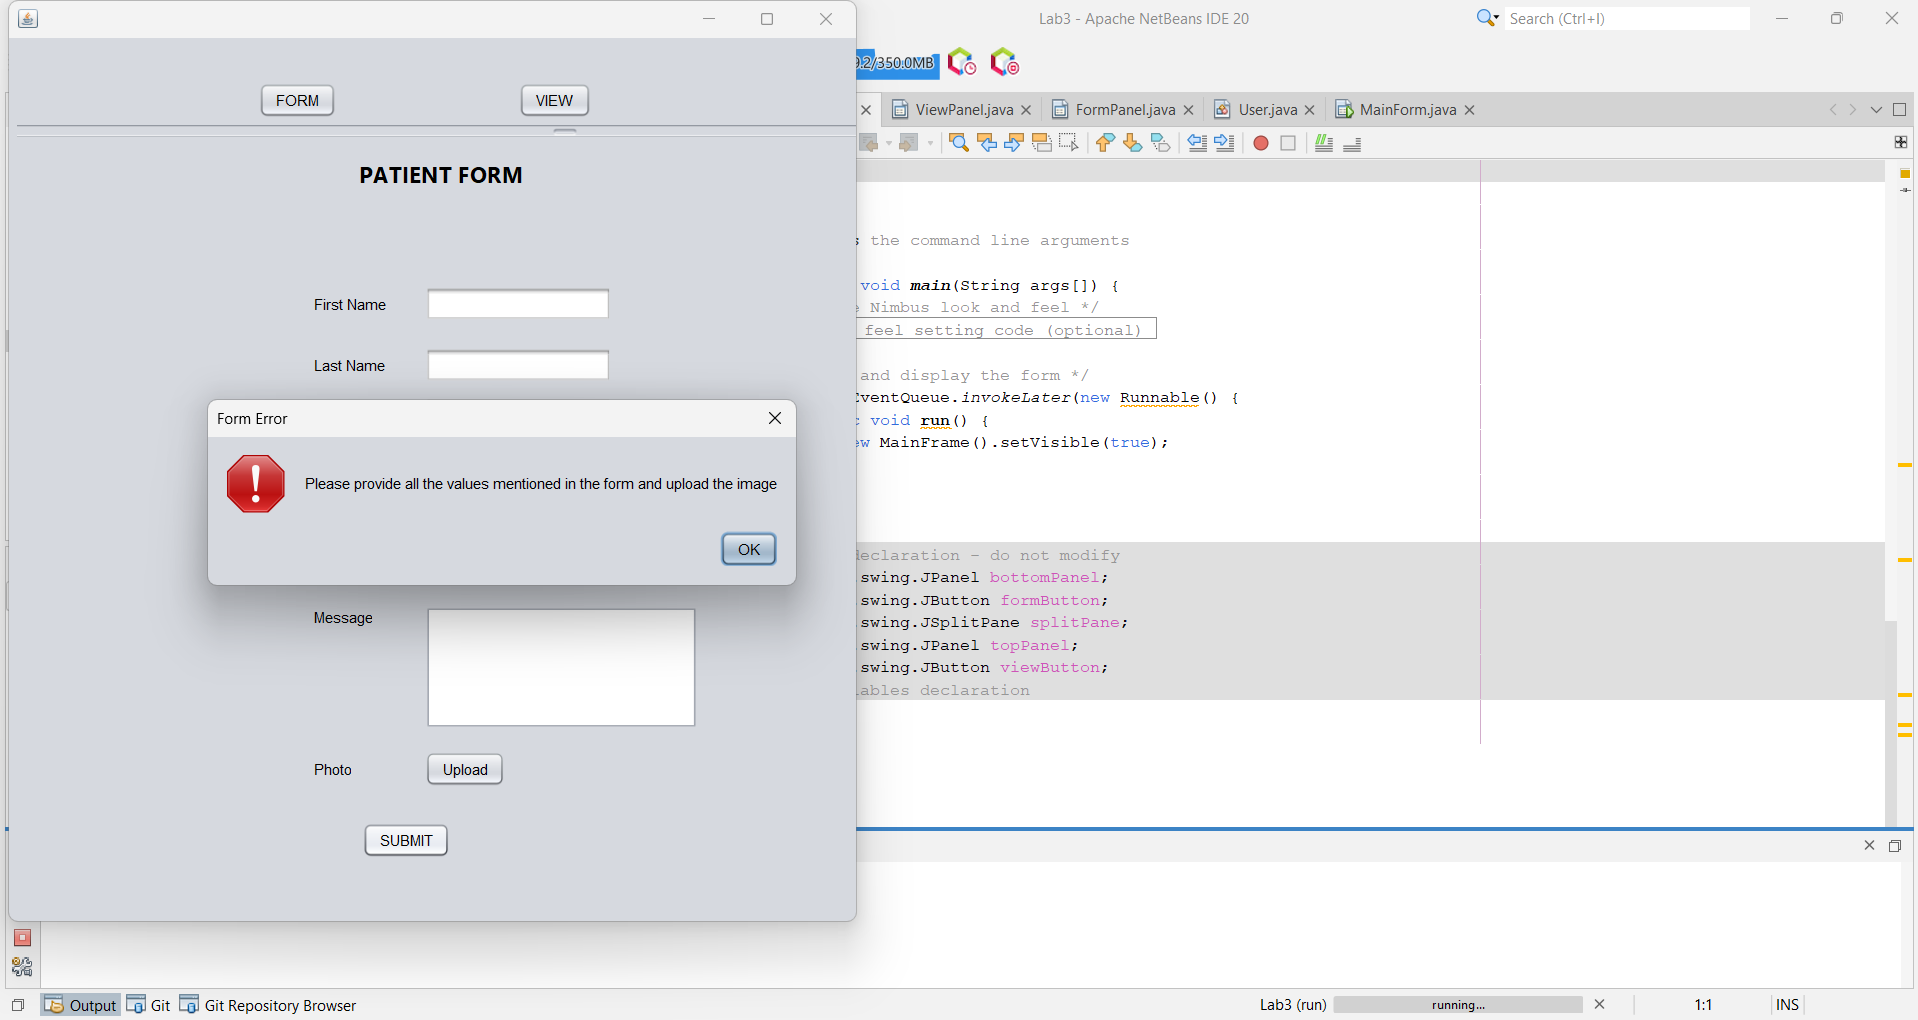
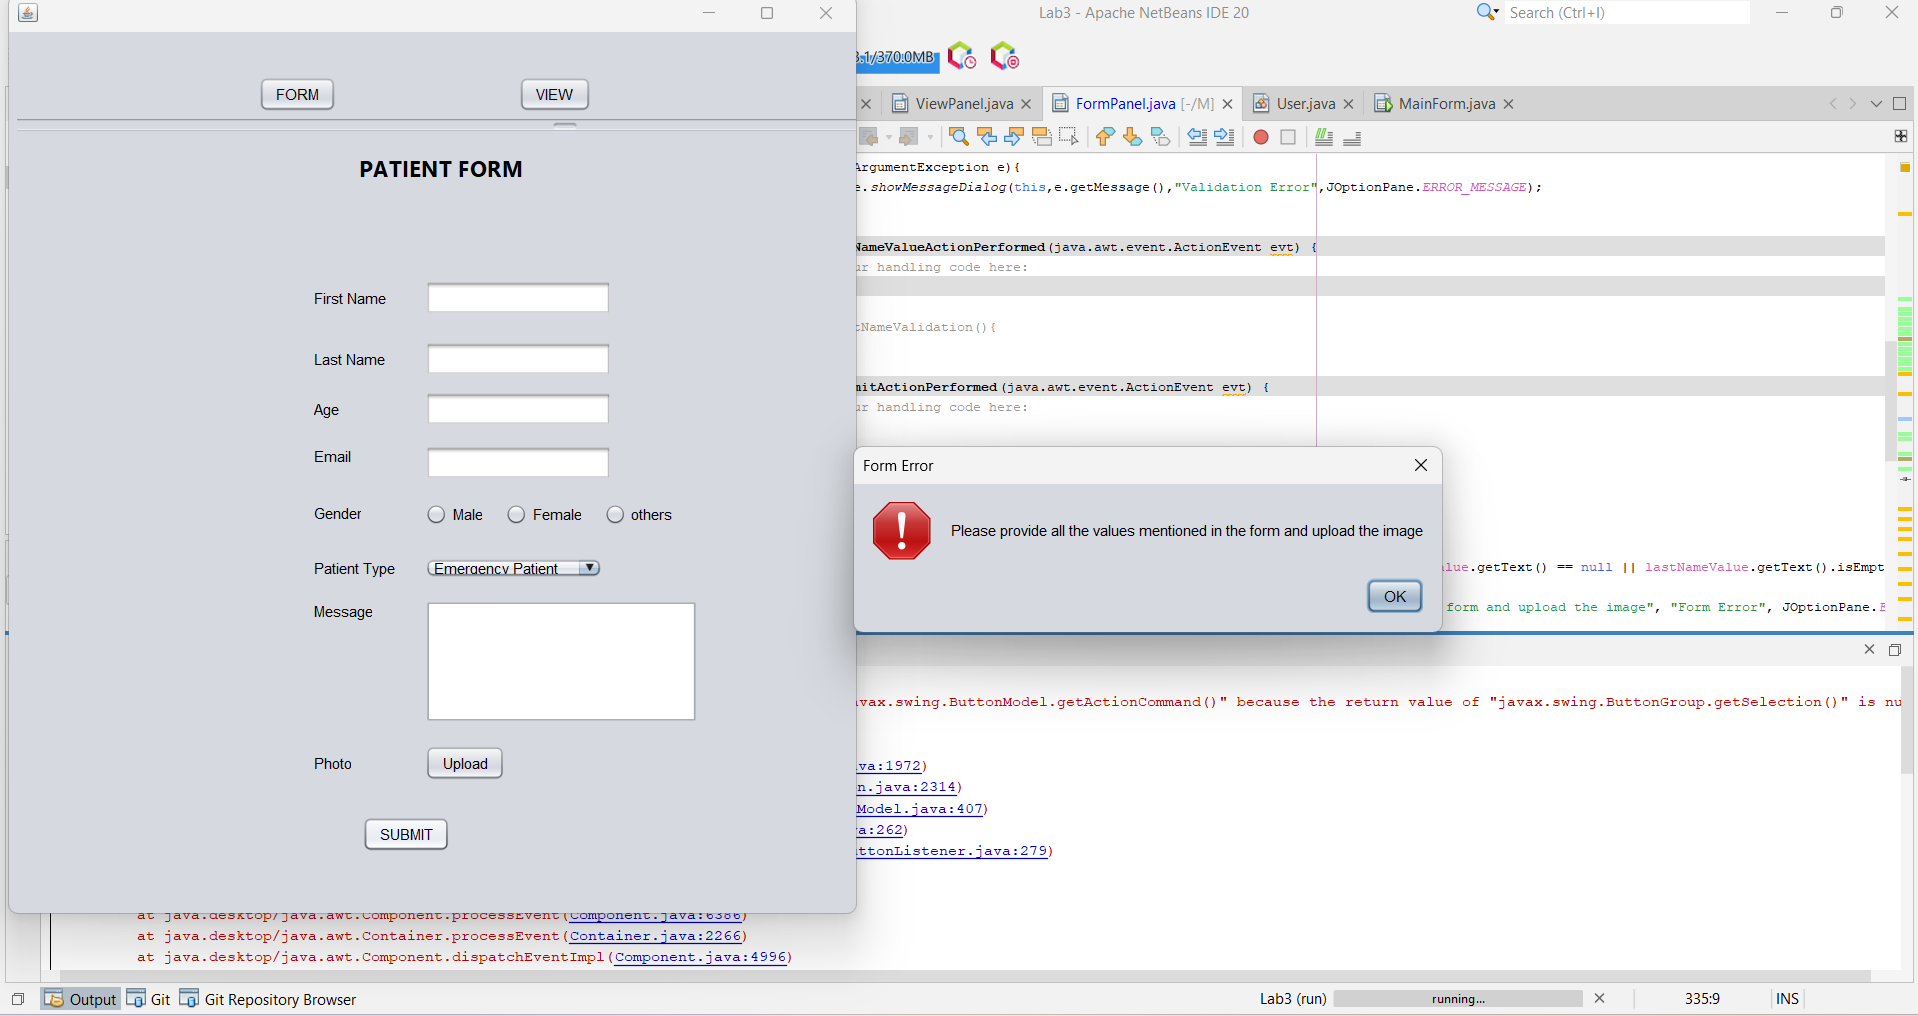
Added some more udpated files and updated data

diff --git a/FormPanel.java b/FormPanel.java
@@ -77,6 +77,11 @@ public class FormPanel extends javax.swing.JPanel {
                 firstNameValueActionPerformed(evt);
             }
         });
+        firstNameValue.addKeyListener(new java.awt.event.KeyAdapter() {
+            public void keyPressed(java.awt.event.KeyEvent evt) {
+                firstNameValueKeyPressed(evt);
+            }
+        });
 
         onSubmit.setText("SUBMIT");
         onSubmit.addActionListener(new java.awt.event.ActionListener() {
@@ -123,6 +128,11 @@ public class FormPanel extends javax.swing.JPanel {
         lastNameValue.addActionListener(new java.awt.event.ActionListener() {
             public void actionPerformed(java.awt.event.ActionEvent evt) {
                 lastNameValueActionPerformed(evt);
+            }
+        });
+        lastNameValue.addKeyListener(new java.awt.event.KeyAdapter() {
+            public void keyPressed(java.awt.event.KeyEvent evt) {
+                lastNameValueKeyPressed(evt);
             }
         });
 
@@ -262,6 +272,29 @@ public class FormPanel extends javax.swing.JPanel {
         );
     }// </editor-fold>//GEN-END:initComponents
 
+    public void radioButtonFieldValidation(){
+        try{
+            if (radioButtonGroup.getSelection().toString()== null ||radioButtonGroup.getSelection().toString().isEmpty()){
+                throw new Exception();
+            }
+        }
+        
+        catch (Exception e){
+            JOptionPane.showMessageDialog(this,"Gender is not selected, please choose the gender","Validation Error",JOptionPane.ERROR_MESSAGE);
+        }
+    }
+    
+    public void messageTextBoxValidation(){
+        try{
+            if (messageValue.getText()== null ||messageValue.getText().isEmpty()){
+                throw new IllegalArgumentException("Please provide your past medical history");
+            }
+        }
+        
+        catch (IllegalArgumentException e){
+            JOptionPane.showMessageDialog(this,e.getMessage(),"Validation Error",JOptionPane.ERROR_MESSAGE);
+        }
+    }
     private void firstNameValueActionPerformed(java.awt.event.ActionEvent evt) {//GEN-FIRST:event_firstNameValueActionPerformed
         // TODO add your handling code here:
     }//GEN-LAST:event_firstNameValueActionPerformed
@@ -278,19 +311,25 @@ public class FormPanel extends javax.swing.JPanel {
         ImageIcon scaledIcon = new ImageIcon(image);
         
         User user = new User();
-        if (firstNameValue.getText() == null || firstNameValue.getText().isEmpty() || lastNameValue.getText() == null || lastNameValue.getText().isEmpty() || ageValue.getText() == null || ageValue.getText().isEmpty() || emailValue.getText() == null || emailValue.getText().isEmpty() || radioButtonGroup.getSelection().getActionCommand() == null || radioButtonGroup.getSelection().getActionCommand().isEmpty()||imagePath == null || imagePath.isEmpty()||messageValue.getText() == null || messageValue.getText().isEmpty()) {
+        if (firstNameValue.getText() == null || firstNameValue.getText().isEmpty() || lastNameValue.getText() == null || lastNameValue.getText().isEmpty() || ageValue.getText() == null || ageValue.getText().isEmpty() || emailValue.getText() == null || emailValue.getText().isEmpty() || imagePath == null || imagePath.isEmpty()) {
  
             JOptionPane.showMessageDialog(this, "Please provide all the values mentioned in the form and upload the image", "Form Error", JOptionPane.ERROR_MESSAGE);        
             
         }
         else{
+            
+   
             user.setFirstName(firstNameValue.getText());
             user.setLastName(lastNameValue.getText());
             user.setAge(ageValue.getText());
             user.setEmail(emailValue.getText());
+            radioButtonFieldValidation();
             user.setGender(radioButtonGroup.getSelection().getActionCommand());
             user.setPatientType(patientTypeDropDown.getSelectedItem().toString());
+            messageTextBoxValidation();
             user.setMessage(messageValue.getText());
+                
+          
         }
         
         
@@ -376,6 +415,52 @@ public class FormPanel extends javax.swing.JPanel {
             
         }
     }//GEN-LAST:event_photoUploadButtonActionPerformed
+
+    private void firstNameValueKeyPressed(java.awt.event.KeyEvent evt) {//GEN-FIRST:event_firstNameValueKeyPressed
+        // TODO add your handling code here:
+        
+        try{
+             
+             if (firstNameValue.getText().matches("^[A-Za-z][a-zA-Z ]+$")){
+                 
+                 firstNameValue.setForeground(Color.black);
+
+            }
+            
+            else{
+                throw new Exception();
+            }
+                        
+        }
+        catch(Exception e){
+            
+            firstNameValue.setForeground(Color.red);
+
+        }
+    }//GEN-LAST:event_firstNameValueKeyPressed
+
+    private void lastNameValueKeyPressed(java.awt.event.KeyEvent evt) {//GEN-FIRST:event_lastNameValueKeyPressed
+        // TODO add your handling code here:
+        
+        try{
+             
+             if (lastNameValue.getText().matches("^[A-Za-z][a-zA-Z ]+$")){
+                 
+                 lastNameValue.setForeground(Color.black);
+
+            }
+            
+            else{
+                throw new Exception();
+            }
+                        
+        }
+        catch(Exception e){
+            
+            lastNameValue.setForeground(Color.red);
+
+        }
+    }//GEN-LAST:event_lastNameValueKeyPressed
 
 
     // Variables declaration - do not modify//GEN-BEGIN:variables
